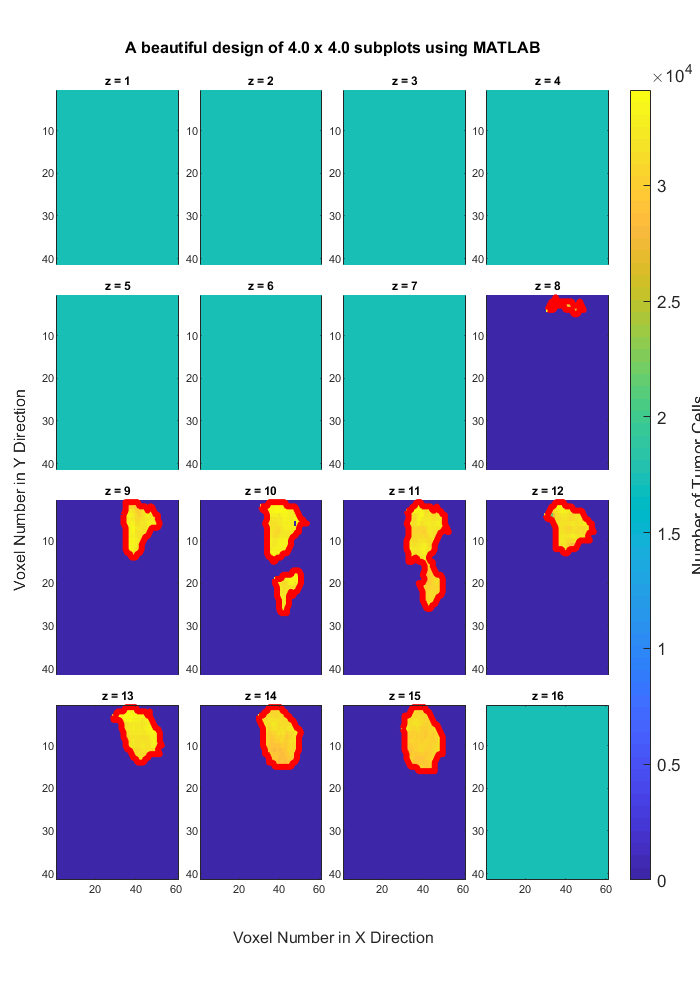
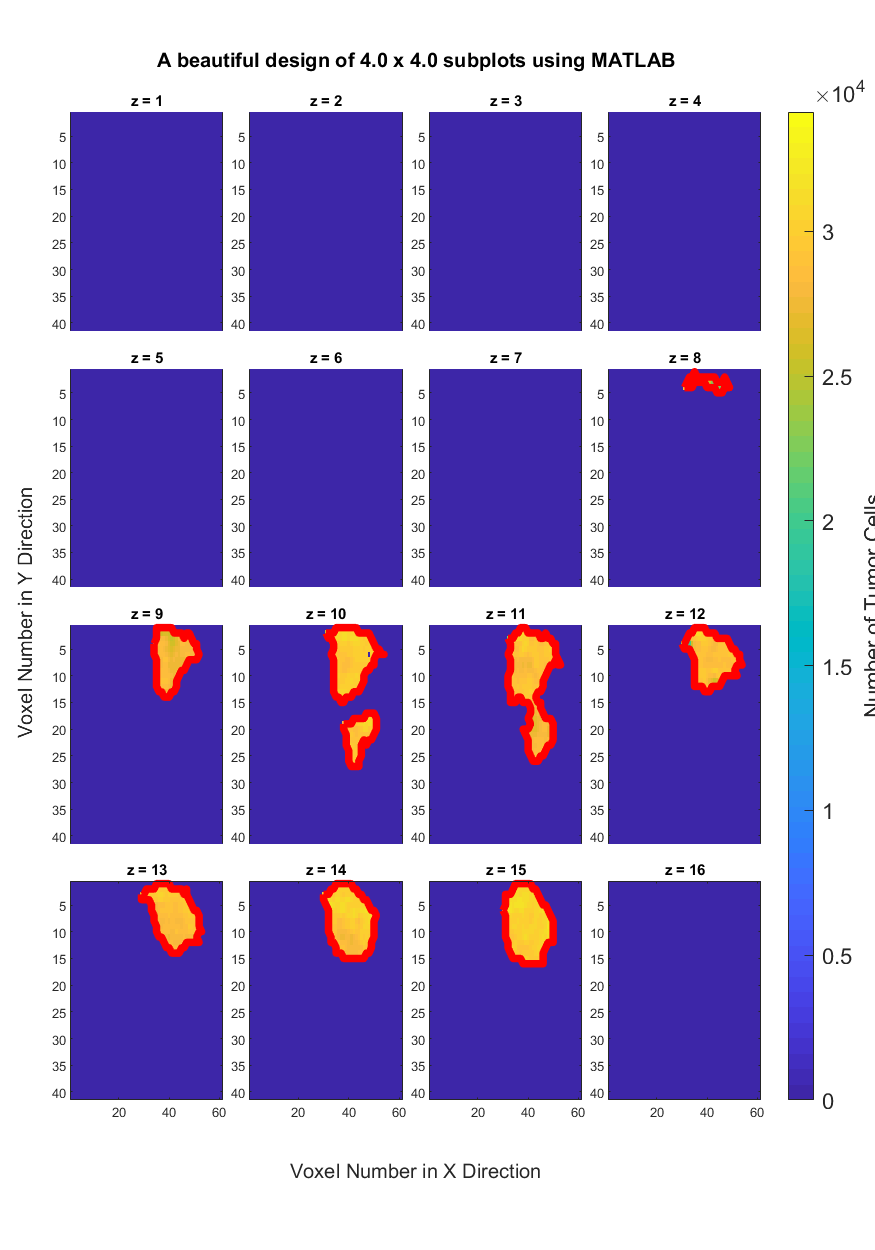
ewrwer

diff --git a/homework/4/rat.m b/homework/4/rat.m
@@ -102,11 +102,9 @@ for irow = nrow:-1:1
                                     ] ...
                       );
                                     
-        subPlot.XLim = [1 61];
         set ( gca, 'ydir', 'reverse' );
-        subPlot.YLim = [1 41];    
-        
-        imagesc(data(:,:,sliceNumber));
+       
+        imagesc(data(:,:,sliceNumber),colorLimits);
         
         if sliceNumber>=13
             subPlot.XAxis.Visible = 'on';

diff --git a/homework/4/rat_boundary.m b/homework/4/rat_boundary.m
@@ -102,12 +102,9 @@ for irow = nrow:-1:1
                                     ] ...
                       );
                   
-                  
-        subPlot.XLim = [1 61];
         set ( gca, 'ydir', 'reverse' );
-        subPlot.YLim = [1 41];
         
-        imagesc(data(:,:,sliceNumber));
+        imagesc(data(:,:,sliceNumber),colorLimits);
        
         if sliceNumber>=13
             subPlot.XAxis.Visible = 'on';
